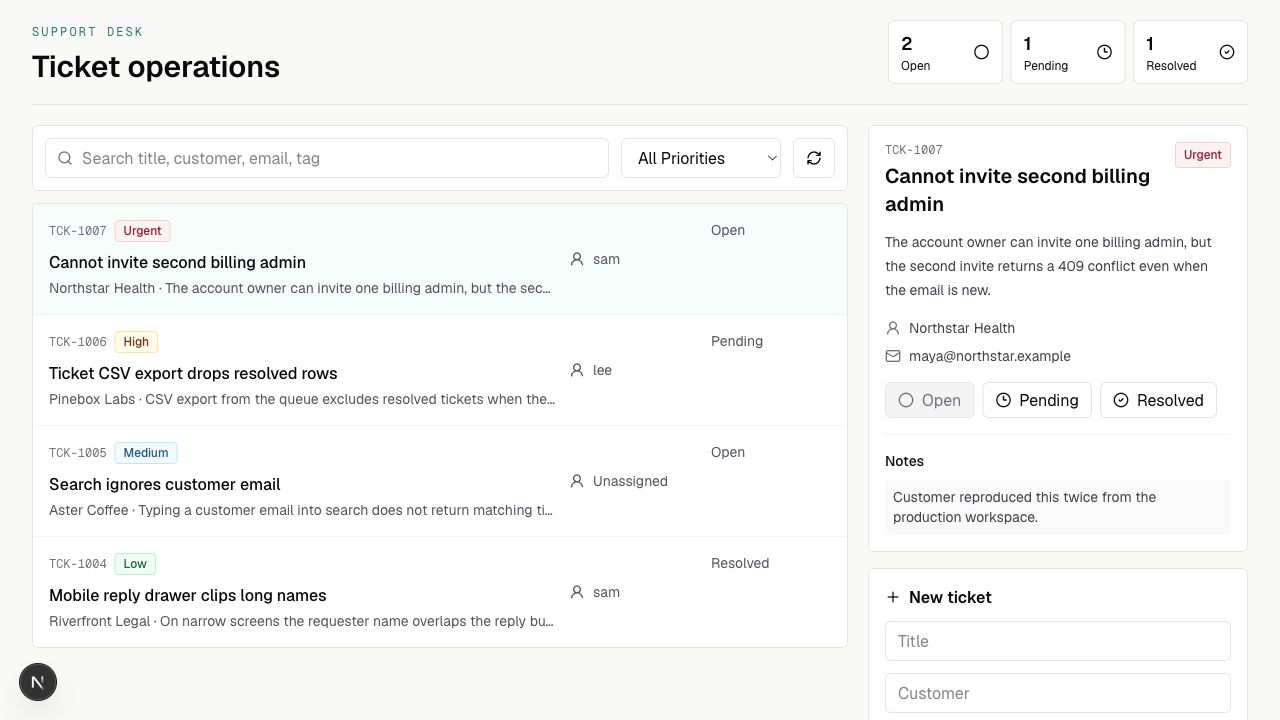
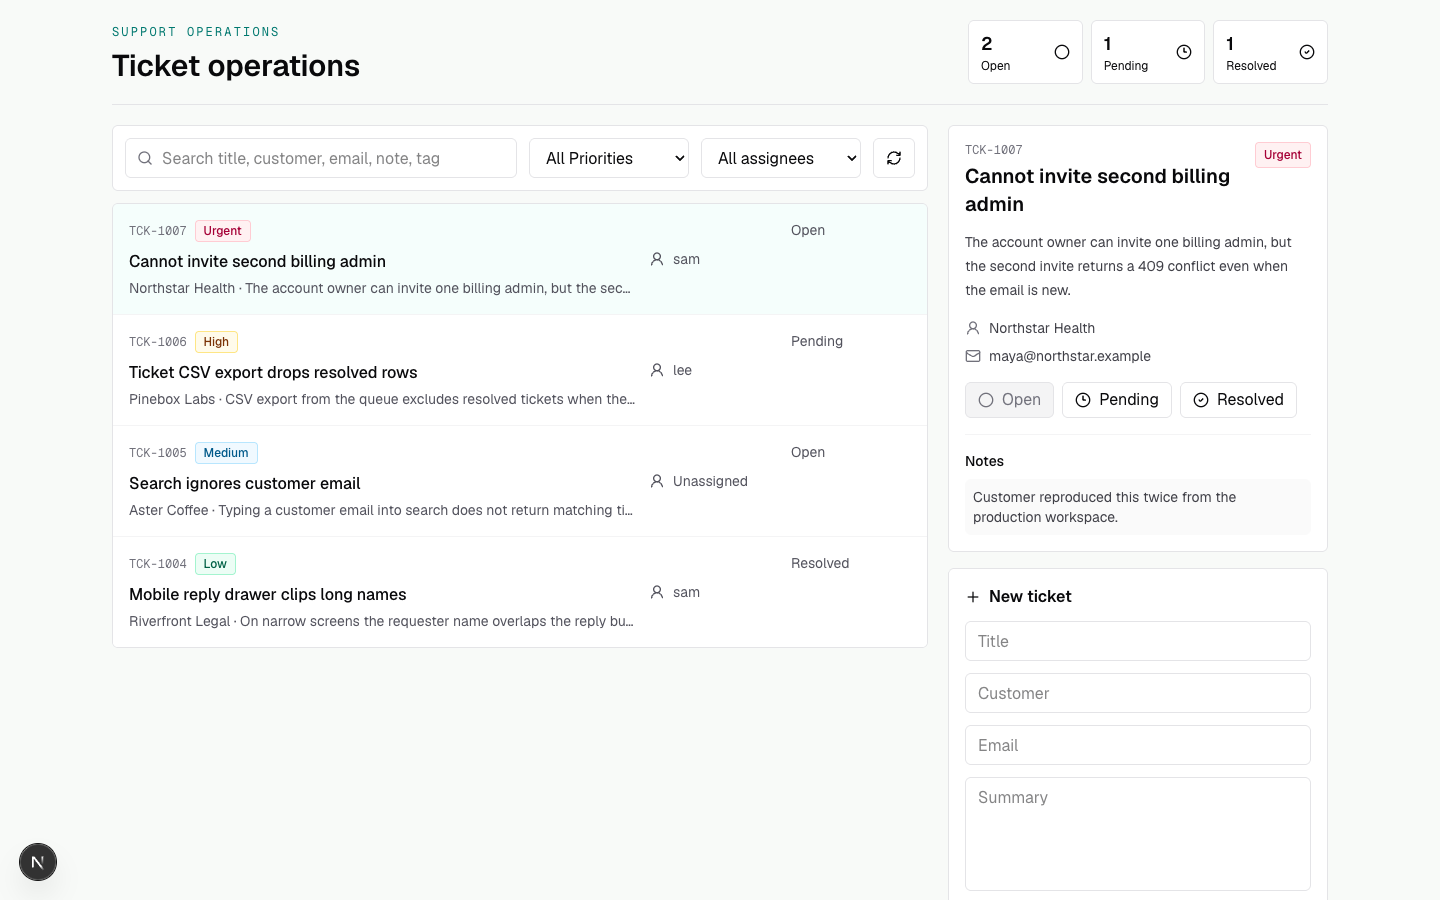
Add showcase visuals (#9)
Adds a current product screenshot and a truthful ticket-to-validation workflow diagram.

diff --git a/README.md b/README.md
@@ -4,6 +4,8 @@ A working full-stack Next.js ticket workbench for support operations and AI-assi
 
 The application uses App Router route handlers, a file-backed ticket store, a client queue UI, and TypeScript tests. AI assistance is part of the repository workflow, not a runtime product feature; this repository is not presented as a deployed AI product.
 
+![Support Operations Workbench showing the ticket queue, filters, ticket details, and new-ticket form](docs/app-screenshot.png)
+
 ## What It Demonstrates
 
 - A usable support queue with search, status, priority, and assignee filters.
@@ -41,6 +43,21 @@ npm run validate
 - `src/data/tickets.json` - seed ticket data.
 - `tests/tickets.test.ts` - focused domain tests.
 - `docs/change-scenarios.md` - representative change requests and acceptance criteria.
+
+## Ticket-to-Validation Workflow
+
+```mermaid
+flowchart LR
+    A["Change request<br/>goal and acceptance criteria"] --> B["Investigate<br/>guidance, UI, API, domain helpers"]
+    B --> C["Reproduce<br/>ticket data and current behavior"]
+    C --> D["Implement<br/>smallest scoped change"]
+    D --> E["Validate<br/>lint, types, focused tests"]
+    E --> F["Review<br/>diff, behavior, residual risk"]
+    F --> G["PR evidence<br/>summary and checks"]
+```
+
+This is the repository workflow around the application. The running workbench
+itself is conventional Next.js software and does not call an AI model.
 
 ## Suggested Change Prompt
 